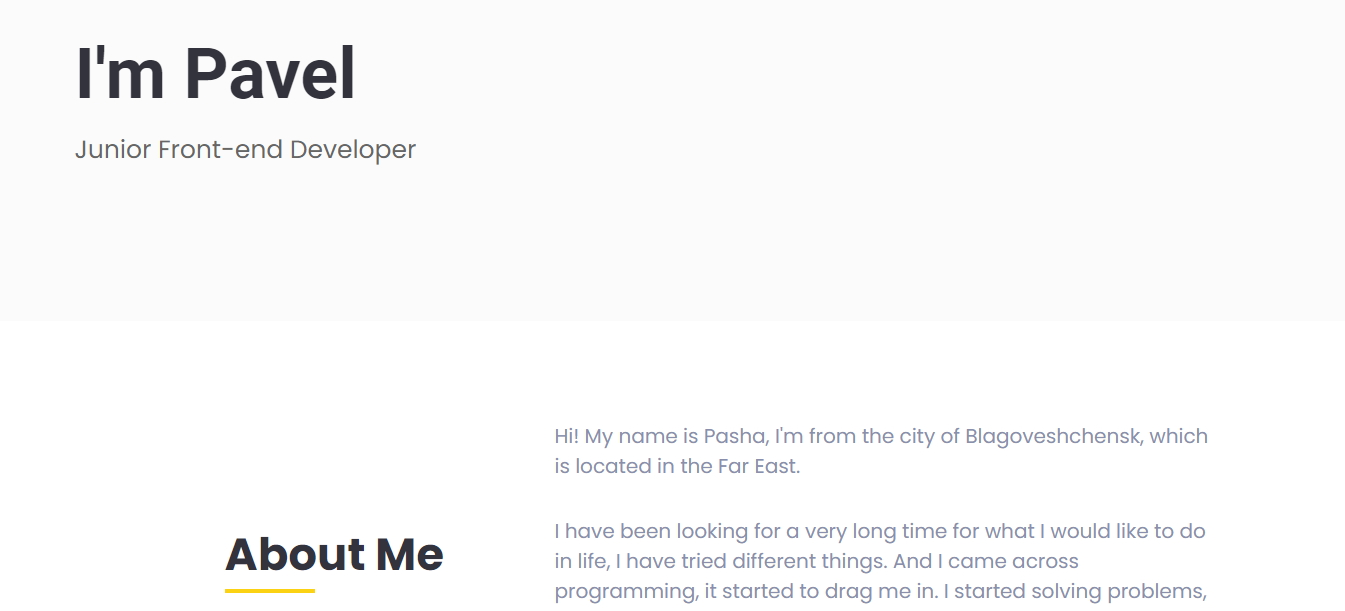
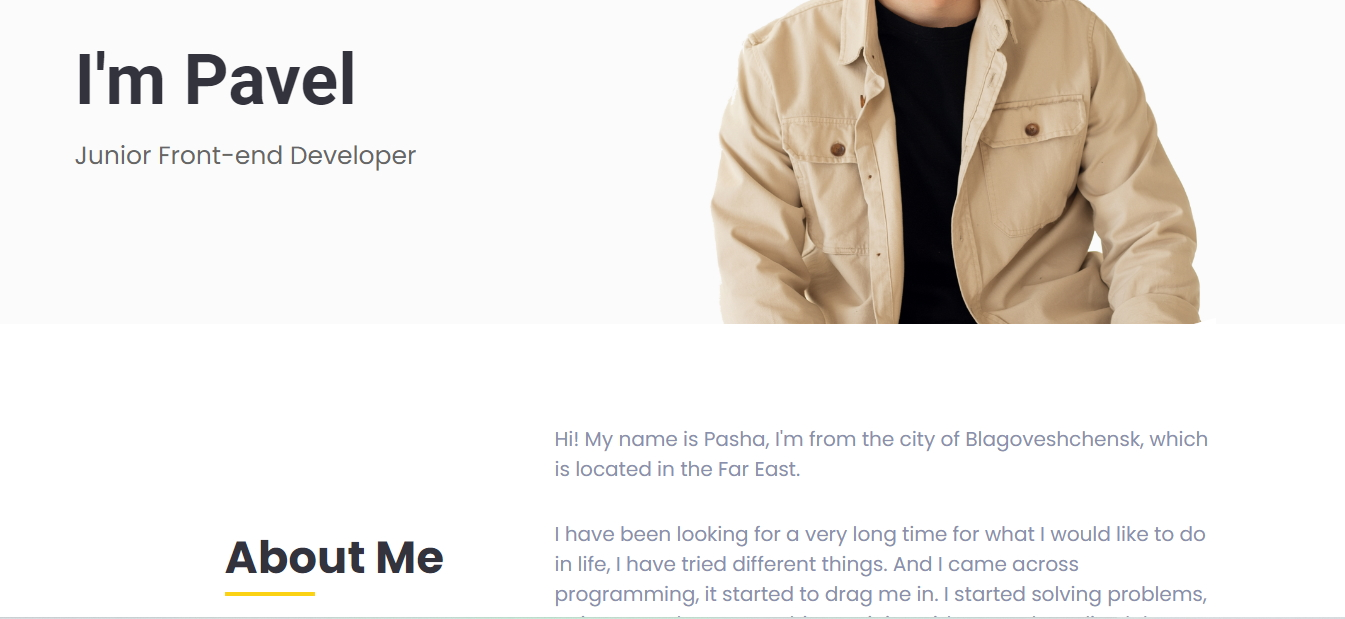
feat: complete task

diff --git a/index.html b/index.html
@@ -7,7 +7,7 @@
 	<link rel="stylesheet" href="./style.css">
 	<link href="https://fonts.googleapis.com/css2?family=Poppins:wght@100;200;300;400;500;600;700&display=swap" rel="stylesheet">
 	<link href="https://fonts.googleapis.com/css2?family=Roboto:wght@700;900&display=swap" rel="stylesheet">
-	<title>Document</title>
+	<title>CV</title>
 </head>
 <body>
 	<header class="header">
@@ -44,6 +44,7 @@
 						<h3>Junior Front-end Developer</h3>
 					</div>
 					<div class="preview__container__right">
+						<img class="my-photo" src="./img/MyPhoto.jpg" alt="My photo">
 					</div>
 				</div>
 			</div>

diff --git a/style.css b/style.css
@@ -75,7 +75,9 @@ margin-right: 35px;
 }
 
 .preview__container {
+	height: 550px;
 	display: flex;
+	align-items: flex-end;
 }
 
 h1 {
@@ -92,10 +94,18 @@ h3 {
 }
 
 .preview__container__left {
-	margin-top: 250px;
+	margin-bottom: 150px;
+	margin-right: 250px;
 }
 
+.preview__container__right {
 
+}
+
+.my-photo {
+	width: 550px;
+	height: 552px;
+}
 
 
 /*    About    */
